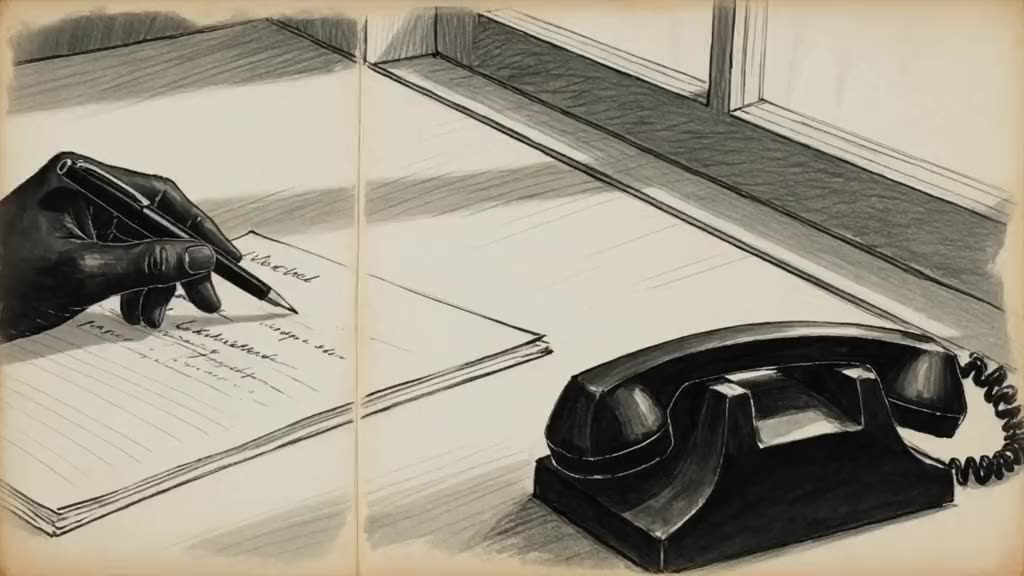
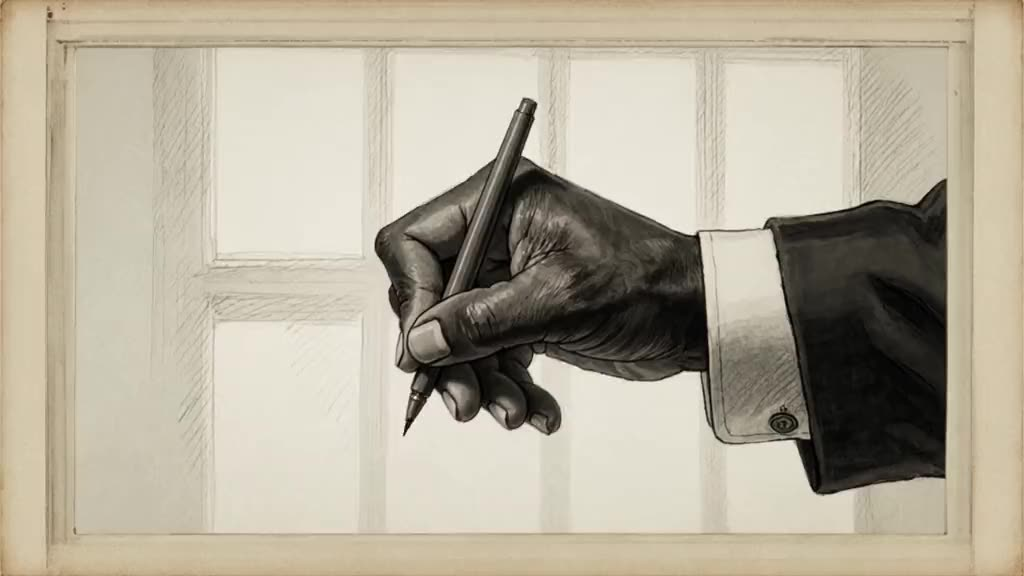
fix: video retakes, plea pronoun, hallway narration, prominent controls
- The Stop: reshot — parked car under the streetlamp pushing in to the driver
  checking his mirror, light sweep + red glow at the page edge, no driving
- The Box: reshot as a tight front close-up of the hand and pen writing
  straight down, the page fully out of frame — nothing readable, ever
- Act IV text: the public defender is now "he" to match the film
- The Hallway narration re-rendered (previous ElevenLabs take was corrupted
  static)
- Sound and Skeptic Mode now live together in a prominent top-right control
  cluster on every page (labeled "♪ Sound on/off" pill + larger Skeptic pill)

Claude-Session: https://claude.ai/code/session_01LemdhspHmySzUpGz5v4rRD

diff --git a/src/components/FloatingControls.tsx b/src/components/FloatingControls.tsx
@@ -1,0 +1,16 @@
+import AmbientAudio from './AmbientAudio'
+import SkepticToggle from './SkepticToggle'
+
+/**
+ * The two site-wide controls — Skeptic Mode and the background score —
+ * pinned together in the top-right corner on every page so they're always
+ * in the same place and easy to find.
+ */
+export default function FloatingControls() {
+  return (
+    <div className="fixed top-4 right-4 z-50 flex items-stretch gap-2">
+      <SkepticToggle />
+      <AmbientAudio />
+    </div>
+  )
+}

diff --git a/src/components/SkepticToggle.tsx b/src/components/SkepticToggle.tsx
@@ -2,11 +2,11 @@ import { useSkepticMode } from '../context/SkepticModeContext'
 import { analytics } from '../analytics/ga'
 
 /**
- * Floating Skeptic Mode toggle. Defaults to bottom-left so it never collides
- * with the record rail (bottom-right); pass `position` where that corner is
- * taken (e.g. the cinema control bar).
+ * Skeptic Mode toggle — rendered inside <FloatingControls /> in the top-right
+ * corner of every page. Deliberately prominent: the argument wants to be
+ * checked.
  */
-export default function SkepticToggle({ position = 'bottom-5 left-5' }: { position?: string }) {
+export default function SkepticToggle() {
   const { skepticMode, toggleSkepticMode } = useSkepticMode()
 
   return (
@@ -17,12 +17,12 @@ export default function SkepticToggle({ position = 'bottom-5 left-5' }: { positi
         analytics.skepticToggled(!skepticMode)
       }}
       aria-pressed={skepticMode}
-      className={`fixed ${position} z-50 px-3 py-2 font-mono text-[11px] uppercase tracking-wider
-                  border backdrop-blur-sm transition-colors duration-300
+      className={`px-4 py-2.5 font-mono text-xs uppercase tracking-wider border backdrop-blur-sm
+                  transition-colors duration-300 shadow-[0_2px_16px_rgba(0,0,0,0.5)]
                   ${
                     skepticMode
-                      ? 'bg-brick/30 border-brick/70 text-marble'
-                      : 'bg-asphalt/70 border-fog/30 text-fog hover:border-marble/40 hover:text-marble'
+                      ? 'bg-brick/50 border-brick text-marble'
+                      : 'bg-asphalt/85 border-marble/40 text-marble/90 hover:border-marble hover:bg-asphalt'
                   }`}
     >
       {skepticMode ? 'Skeptic Mode: ON' : 'Skeptic Mode'}

diff --git a/src/components/AmbientAudio.tsx b/src/components/AmbientAudio.tsx
@@ -89,15 +89,16 @@ export default function AmbientAudio() {
       aria-pressed={enabled}
       aria-label={enabled ? 'Mute background music' : 'Play background music'}
       title="“It Makes a Long Time Man Feel Bad” — traditional work song"
-      className={`fixed top-5 right-5 z-50 flex h-9 w-9 items-center justify-center border font-mono text-sm
-                  backdrop-blur-sm transition-colors duration-300
+      className={`flex items-center gap-2 border px-4 py-2.5 font-mono text-xs uppercase tracking-wider
+                  backdrop-blur-sm transition-colors duration-300 shadow-[0_2px_16px_rgba(0,0,0,0.5)]
                   ${
                     enabled
-                      ? 'border-fog/40 bg-asphalt/70 text-marble'
-                      : 'border-fog/25 bg-asphalt/70 text-fog/50 line-through hover:text-fog'
+                      ? 'border-marble/40 bg-asphalt/85 text-marble/90 hover:border-marble hover:bg-asphalt'
+                      : 'border-fog/30 bg-asphalt/85 text-fog hover:border-marble/50 hover:text-marble'
                   }`}
     >
-      ♪
+      <span className={`text-sm leading-none ${enabled ? '' : 'opacity-50'}`}>♪</span>
+      {enabled ? 'Sound on' : 'Sound off'}
     </button>
   )
 }

diff --git a/src/App.tsx b/src/App.tsx
@@ -1,6 +1,6 @@
 import { Routes, Route } from 'react-router-dom'
 import { lazy, Suspense } from 'react'
-import AmbientAudio from './components/AmbientAudio'
+import FloatingControls from './components/FloatingControls'
 
 const HomePage    = lazy(() => import('./pages/HomePage'))
 const StoryPage   = lazy(() => import('./pages/StoryPage'))
@@ -14,7 +14,7 @@ const AboutPage   = lazy(() => import('./pages/AboutPage'))
 export default function App() {
   return (
     <Suspense fallback={null}>
-      <AmbientAudio />
+      <FloatingControls />
       <Routes>
         <Route path="/"       element={<HomePage />} />
         <Route path="/story"  element={<StoryPage />} />

diff --git a/src/pages/StoryPage.tsx b/src/pages/StoryPage.tsx
@@ -7,7 +7,6 @@ import { analytics } from '../analytics/ga'
 import ScrollAct from '../components/ScrollAct'
 import RecordFollows from '../components/RecordFollows'
 import TheSameMistake from '../components/TheSameMistake'
-import SkepticToggle from '../components/SkepticToggle'
 
 /** Which record stage (0..5) the file has reached after a given act. */
 const stageForAct = (actNumber: number) => Math.max(0, Math.min(actNumber - 1, 5))
@@ -134,8 +133,6 @@ export default function StoryPage() {
           </nav>
         </footer>
       )}
-
-      <SkepticToggle />
     </main>
   )
 }

diff --git a/src/data/content.ts b/src/data/content.ts
@@ -526,7 +526,7 @@ const ACTS_BASE: StoryAct[] = [
     title: 'The Plea',
     subtitle: 'The same mistake',
     body_mdx: p(
-      'The public defender had eleven minutes. She was good — tired-good, the way people are good at jobs designed to be impossible. She laid out the arithmetic: fight it and risk years, or take the deal and take the record.',
+      'The public defender had eleven minutes. He was good — tired-good, the way people are good at jobs designed to be impossible. He laid out the arithmetic: fight it and risk years, or take the deal and take the record.',
       'Deon could not afford bail. He had been inside for nineteen days, and the warehouse job was gone, and every day inside made the deal look more like a door.',
       'Here the story has to stop being one story. Because somewhere in the same state, in the same June, a boy the same age with the same charge and the same empty record sat in a different room — out on bail his parents posted — and the arithmetic ran differently.',
       'Same mistake. Different math. The fork below is not a metaphor. It is measured.'

diff --git a/src/pages/ComparePage.tsx b/src/pages/ComparePage.tsx
@@ -1,7 +1,6 @@
 import { motion } from 'framer-motion'
 import { Link } from 'react-router-dom'
 import CompareLives from '../components/CompareLives'
-import SkepticToggle from '../components/SkepticToggle'
 
 export default function ComparePage() {
   return (
@@ -25,7 +24,6 @@ export default function ComparePage() {
         </p>
         <CompareLives />
       </motion.div>
-      <SkepticToggle />
     </main>
   )
 }

diff --git a/src/pages/WatchPage.tsx b/src/pages/WatchPage.tsx
@@ -1,6 +1,5 @@
 import { Link } from 'react-router-dom'
 import CinematicPlayer from '../components/CinematicPlayer'
-import SkepticToggle from '../components/SkepticToggle'
 
 export default function WatchPage() {
   return (
@@ -12,7 +11,6 @@ export default function WatchPage() {
         ← Sons of Disparity
       </Link>
       <CinematicPlayer />
-      <SkepticToggle position="top-5 right-16" />
     </main>
   )
 }